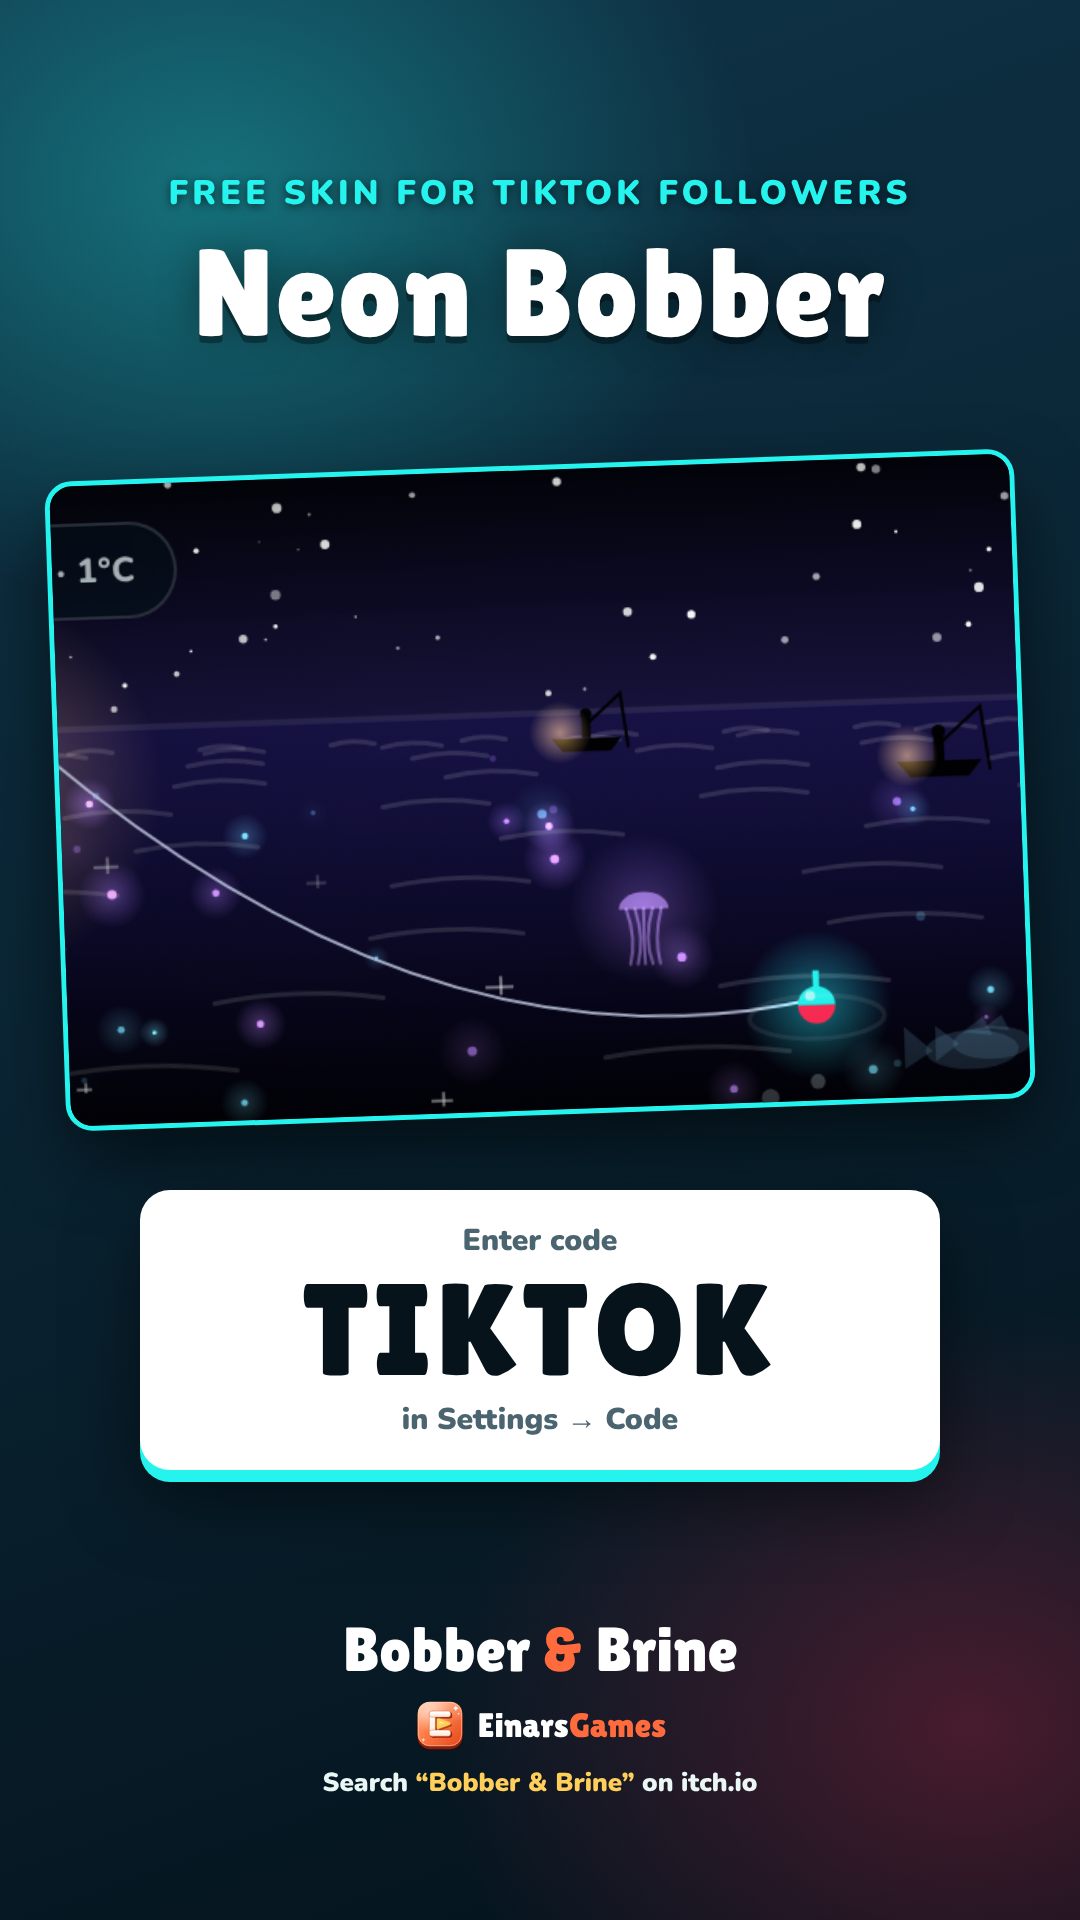
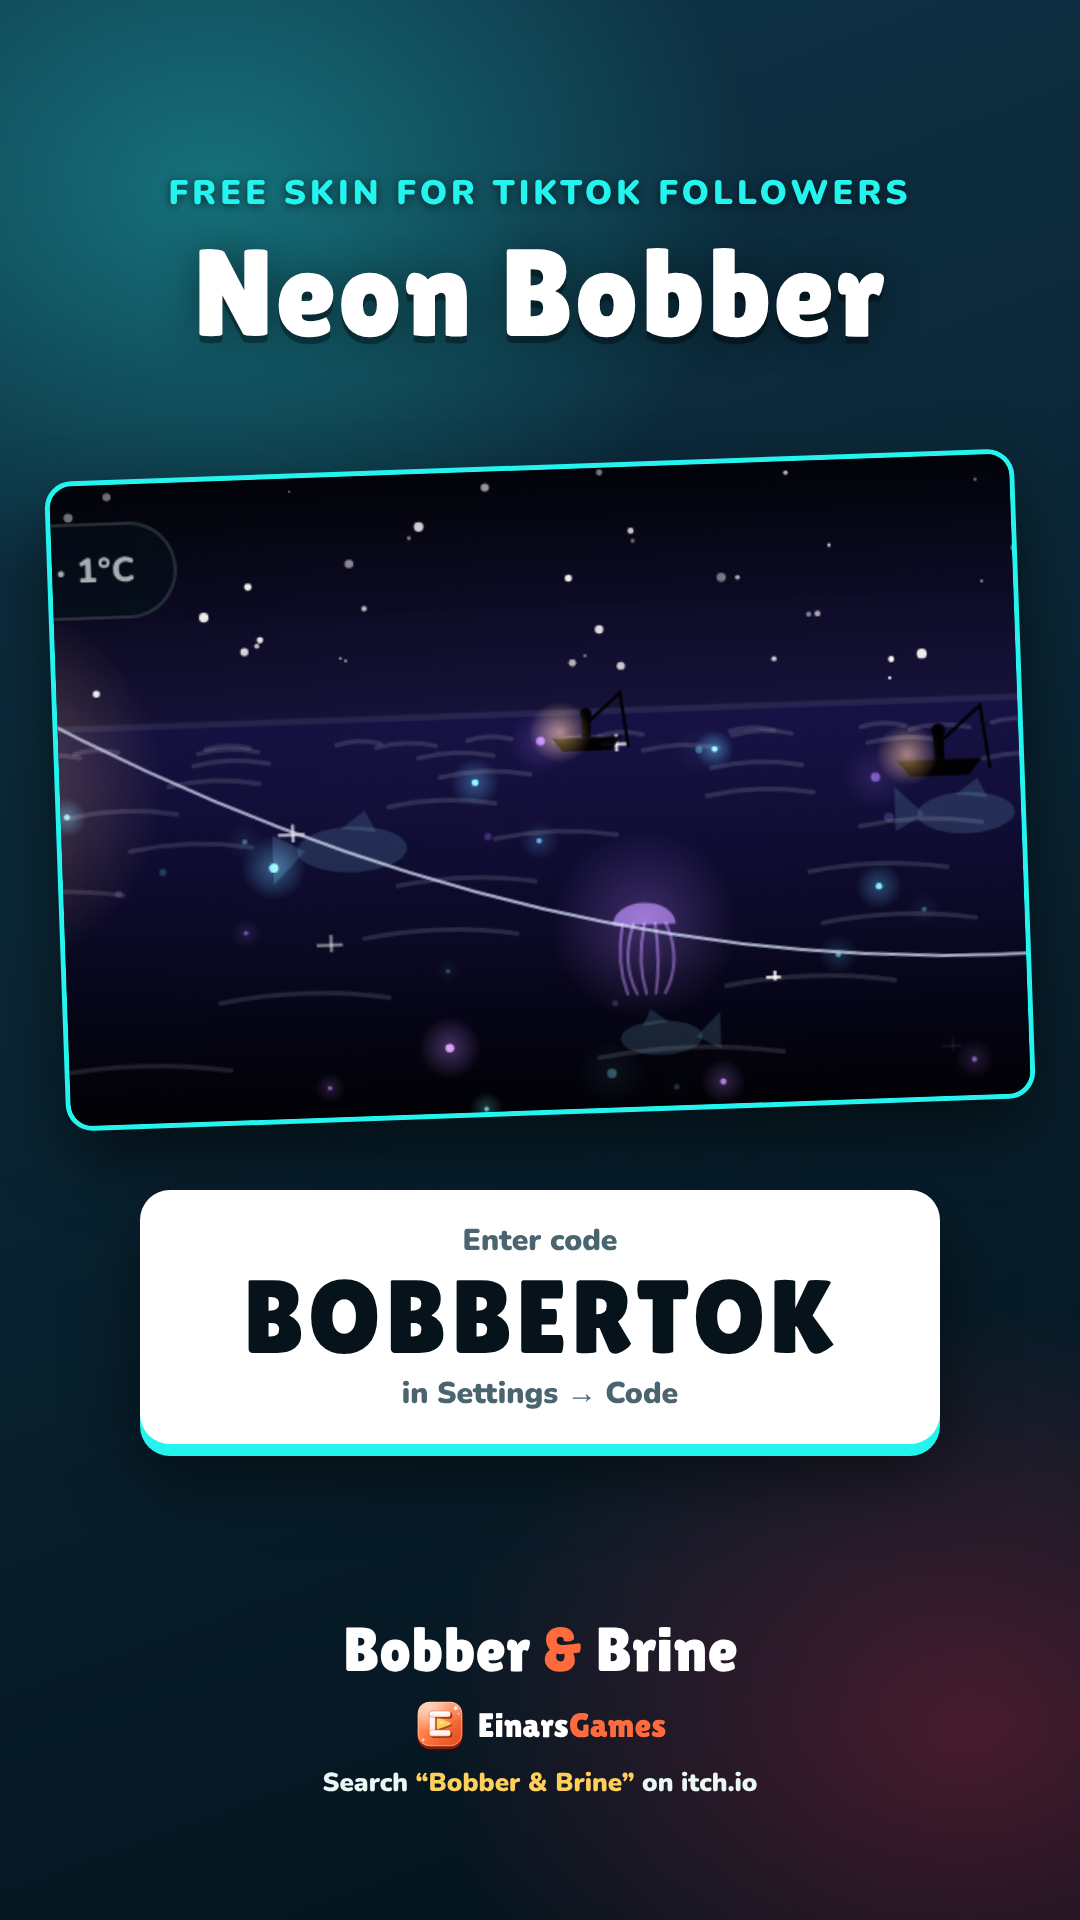
Use less guessable platform codes: BOBBERTOK, REELGRAM, TUBEFISH
Claude-Session: https://claude.ai/code/session_01KkoYxUHEpM14nu6sv12btq

diff --git a/index.html b/index.html
@@ -820,19 +820,19 @@ const RARITY_NAMES = ['Common', 'Rare', 'Epic', 'Legendary'], RARITY_COL = ['#c3
 const SLOTS = [['bobber', 'Bobbers', 'Classic Bobber'], ['rod', 'Rod wraps', 'Tier colours'], ['hat', 'Hats', "Fisher's Hat"], ['pet', 'Dock companions', 'None'], ['lantern', 'Lanterns', 'Classic Lantern'], ['boat', 'Crew boats', 'Classic Boats'], ['trophy', 'Trophies', 'None']];
 const SKINS = [
   ['lime', 'Lime Bobber', 'bobber', 0], ['ocean', 'Ocean Bobber', 'bobber', 0], ['watermelon', 'Watermelon Bobber', 'bobber', 1], ['glow', 'Glow Bobber', 'bobber', 2], ['duck', 'Rubber Duck', 'bobber', 2], ['golden', 'Golden Bobber', 'bobber', 3],
-  ['neon', 'Neon Bobber', 'bobber', 'code', 'TIKTOK', 'TikTok', '#25f4ee'],
+  ['neon', 'Neon Bobber', 'bobber', 'code', 'BOBBERTOK', 'TikTok', '#25f4ee'],
   ['forest', 'Forest Wrap', 'rod', 0], ['candy', 'Candy Stripe', 'rod', 1], ['ice', 'Ice Rod', 'rod', 2], ['lava', 'Lava Rod', 'rod', 3],
-  ['sunset', 'Sunset Rod', 'rod', 'code', 'INSTA', 'Instagram', '#e1306c'],
+  ['sunset', 'Sunset Rod', 'rod', 'code', 'REELGRAM', 'Instagram', '#e1306c'],
   ['beanie', 'Beanie', 'hat', 0], ['bucket', 'Bucket Hat', 'hat', 0], ['hood', 'Rain Hood', 'hat', 1], ['pirate', 'Pirate Hat', 'hat', 2], ['crown', 'Crown', 'hat', 3],
-  ['captain', "Red Captain's Cap", 'hat', 'code', 'YOUTUBE', 'YouTube', '#ff3b3b'],
+  ['captain', "Red Captain's Cap", 'hat', 'code', 'TUBEFISH', 'YouTube', '#ff3b3b'],
   ['frog', 'Frog', 'pet', 1], ['gull', 'Seagull', 'pet', 1], ['cat', 'Cat', 'pet', 2], ['otter', 'Otter', 'pet', 3],
   ['teal', 'Teal Lantern', 'lantern', 0], ['pink', 'Pink Lantern', 'lantern', 0], ['fireflies', 'Fireflies', 'lantern', 1],
   ['red', 'Red Fleet', 'boat', 0], ['sunny', 'Sunny Fleet', 'boat', 1], ['royal', 'Royal Fleet', 'boat', 2],
   ['mossback', 'Mossback Trophy', 'trophy', 'trophy', 0], ['marlin', 'Marlin Trophy', 'trophy', 'trophy', 4], ['leviathan', 'Leviathan Trophy', 'trophy', 'trophy', 5],
 ].map(([id, name, slot, rarity, a, b, c]) => ({ id, name, slot, rarity, code: rarity === 'code' ? a : null, plat: b, pcol: c, legend: rarity === 'trophy' ? a : null }));
 const SKIN = Object.fromEntries(SKINS.map(k => [k.id, k]));
-// sha256 of the lower-case platform codes
[1 lines of base64/hex data omitted]
+// sha256 of the lower-case platform codes (the codes themselves are not stored)
[1 lines of base64/hex data omitted]
 const skinCol = k => k.rarity === 'code' ? k.pcol : k.rarity === 'trophy' ? '#ff8a4c' : RARITY_COL[k.rarity];
 const skinOn = slot => { const id = S.equip[slot]; return id && S.owned[id] ? id : null; };
 function gainPearls(n) { if (n <= 0) return; S.pearls += n; S.pearlsTotal += n; const el = document.getElementById('pearls'); if (el) el.textContent = fmt(S.pearls); }

diff --git a/promo/V1.2-POSTS.md b/promo/V1.2-POSTS.md
@@ -39,7 +39,7 @@ what skin do you want next? tell me in the comments 🐟
 ## TikTok (post with `promo/code-card-tiktok.png` or the update image)
 
 ```
-free skin for my TikTok followers 🎣✨ enter code TIKTOK in Settings → Code to get the Neon Bobber in Bobber & Brine! v1.2 just added pearls, 31 skins and trophies. search "Bobber & Brine" on itch.io, it's free!
+free skin for my TikTok followers 🎣✨ enter code BOBBERTOK in Settings → Code to get the Neon Bobber in Bobber & Brine! v1.2 just added pearls, 31 skins and trophies. search "Bobber & Brine" on itch.io, it's free!
 #indiegame #gamedev #fishing #idlegame #gameupdate #indiedev
 ```
 
@@ -48,7 +48,7 @@ free skin for my TikTok followers 🎣✨ enter code TIKTOK in Settings → Code
 ```
 free skin for my Instagram followers 🎣✨
 
-enter code INSTA in Settings → Code to unlock the Sunset Rod in Bobber & Brine. update 1.2 just dropped with pearls, 31 skins and trophies for your dock!
+enter code REELGRAM in Settings → Code to unlock the Sunset Rod in Bobber & Brine. update 1.2 just dropped with pearls, 31 skins and trophies for your dock!
 
 free to play in your browser, link in bio 🫧
 #indiegame #gamedev #fishinggame #idlegame #cozygames #gameupdate
@@ -62,7 +62,7 @@ FREE skin code for YouTube viewers 🎣 #indiegame
 ```
 Description:
 ```
-Enter code YOUTUBE in Settings → Code to unlock the Red Captain's Cap in Bobber & Brine! v1.2 adds pearls, 31 skins and trophies.
+Enter code TUBEFISH in Settings → Code to unlock the Red Captain's Cap in Bobber & Brine! v1.2 adds pearls, 31 skins and trophies.
 Play free: https://einarsgames.itch.io/bobberbrine
 #indiegame #gamedev #fishing #idlegame #shorts
 ```

diff --git a/promo/COSMETICS.md b/promo/COSMETICS.md
@@ -42,9 +42,9 @@ The whole shop costs **9,240 pearls**, a long-term collection goal.
 
 | Code | Skin | Type |
 |---|---|---|
-| `TIKTOK` | Neon Bobber (TikTok cyan and pink, glowing) | Bobber |
-| `INSTA` | Sunset Rod (Instagram gradient) | Rod wrap |
-| `YOUTUBE` | Red Captain's Cap (with a gold anchor) | Hat |
+| `BOBBERTOK` | Neon Bobber (TikTok cyan and pink, glowing) | Bobber |
+| `REELGRAM` | Sunset Rod (Instagram gradient) | Rod wrap |
+| `TUBEFISH` | Red Captain's Cap (with a gold anchor) | Hat |
 
 ### Pearl Shop
 
